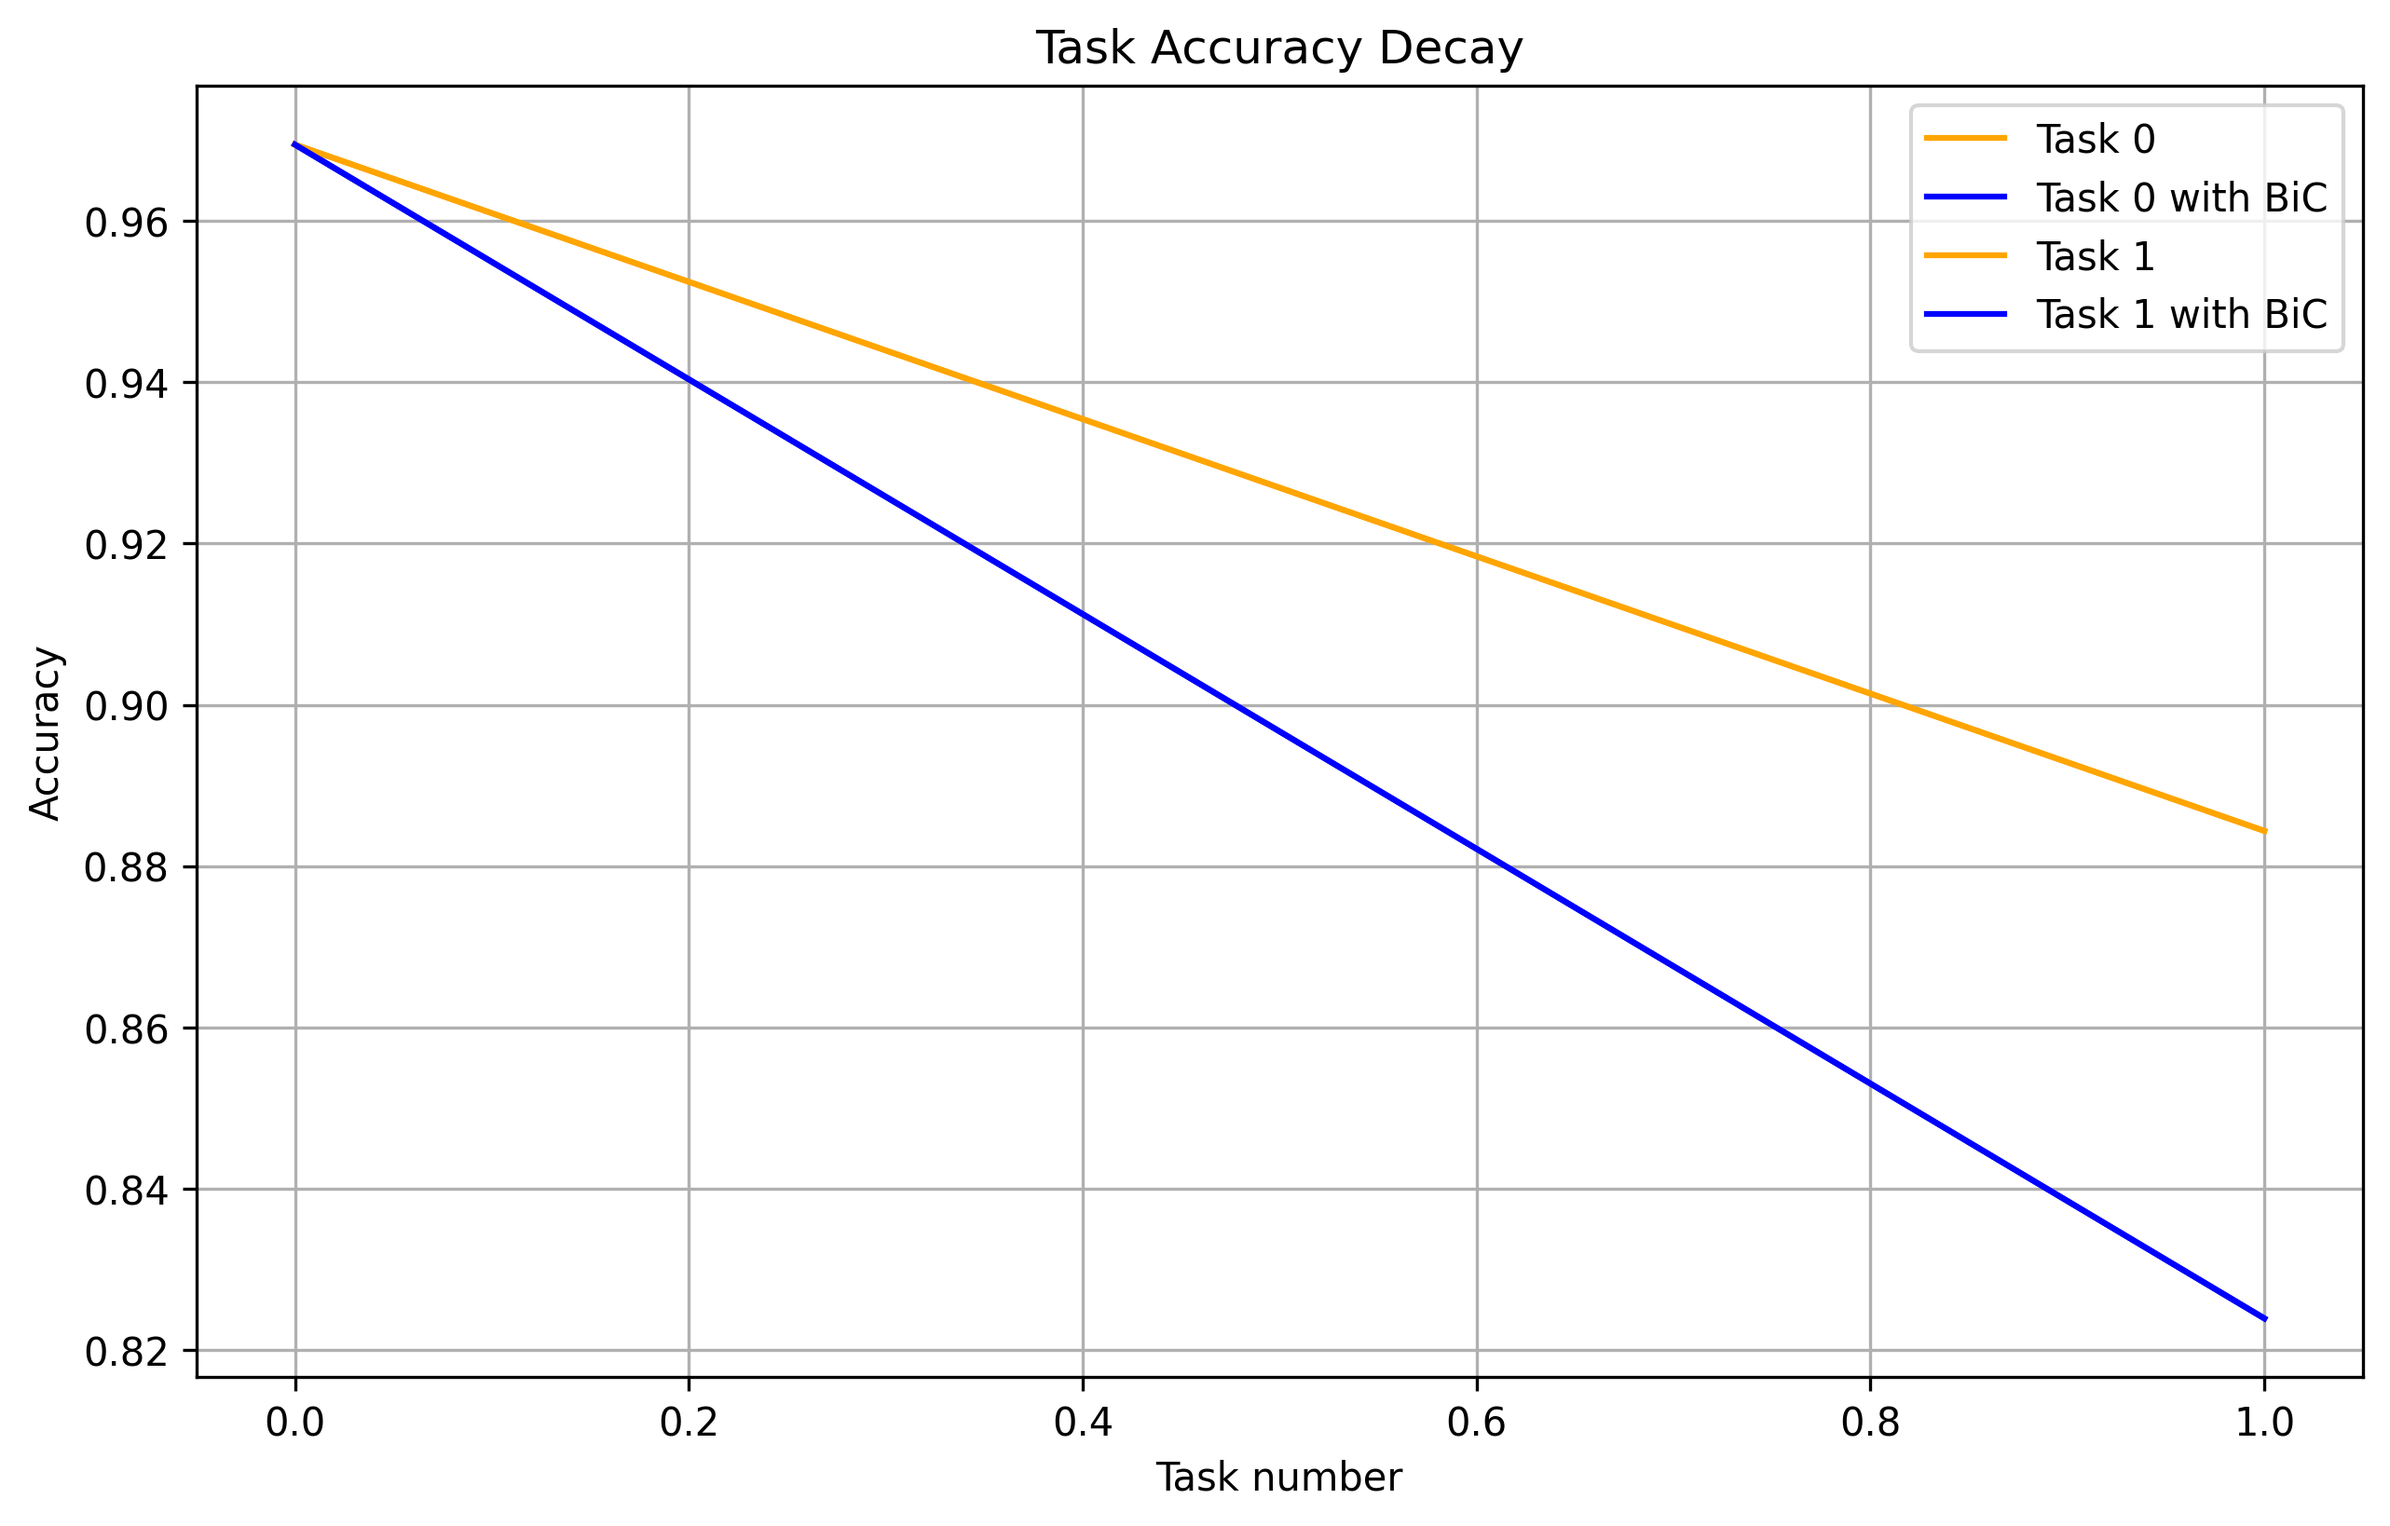
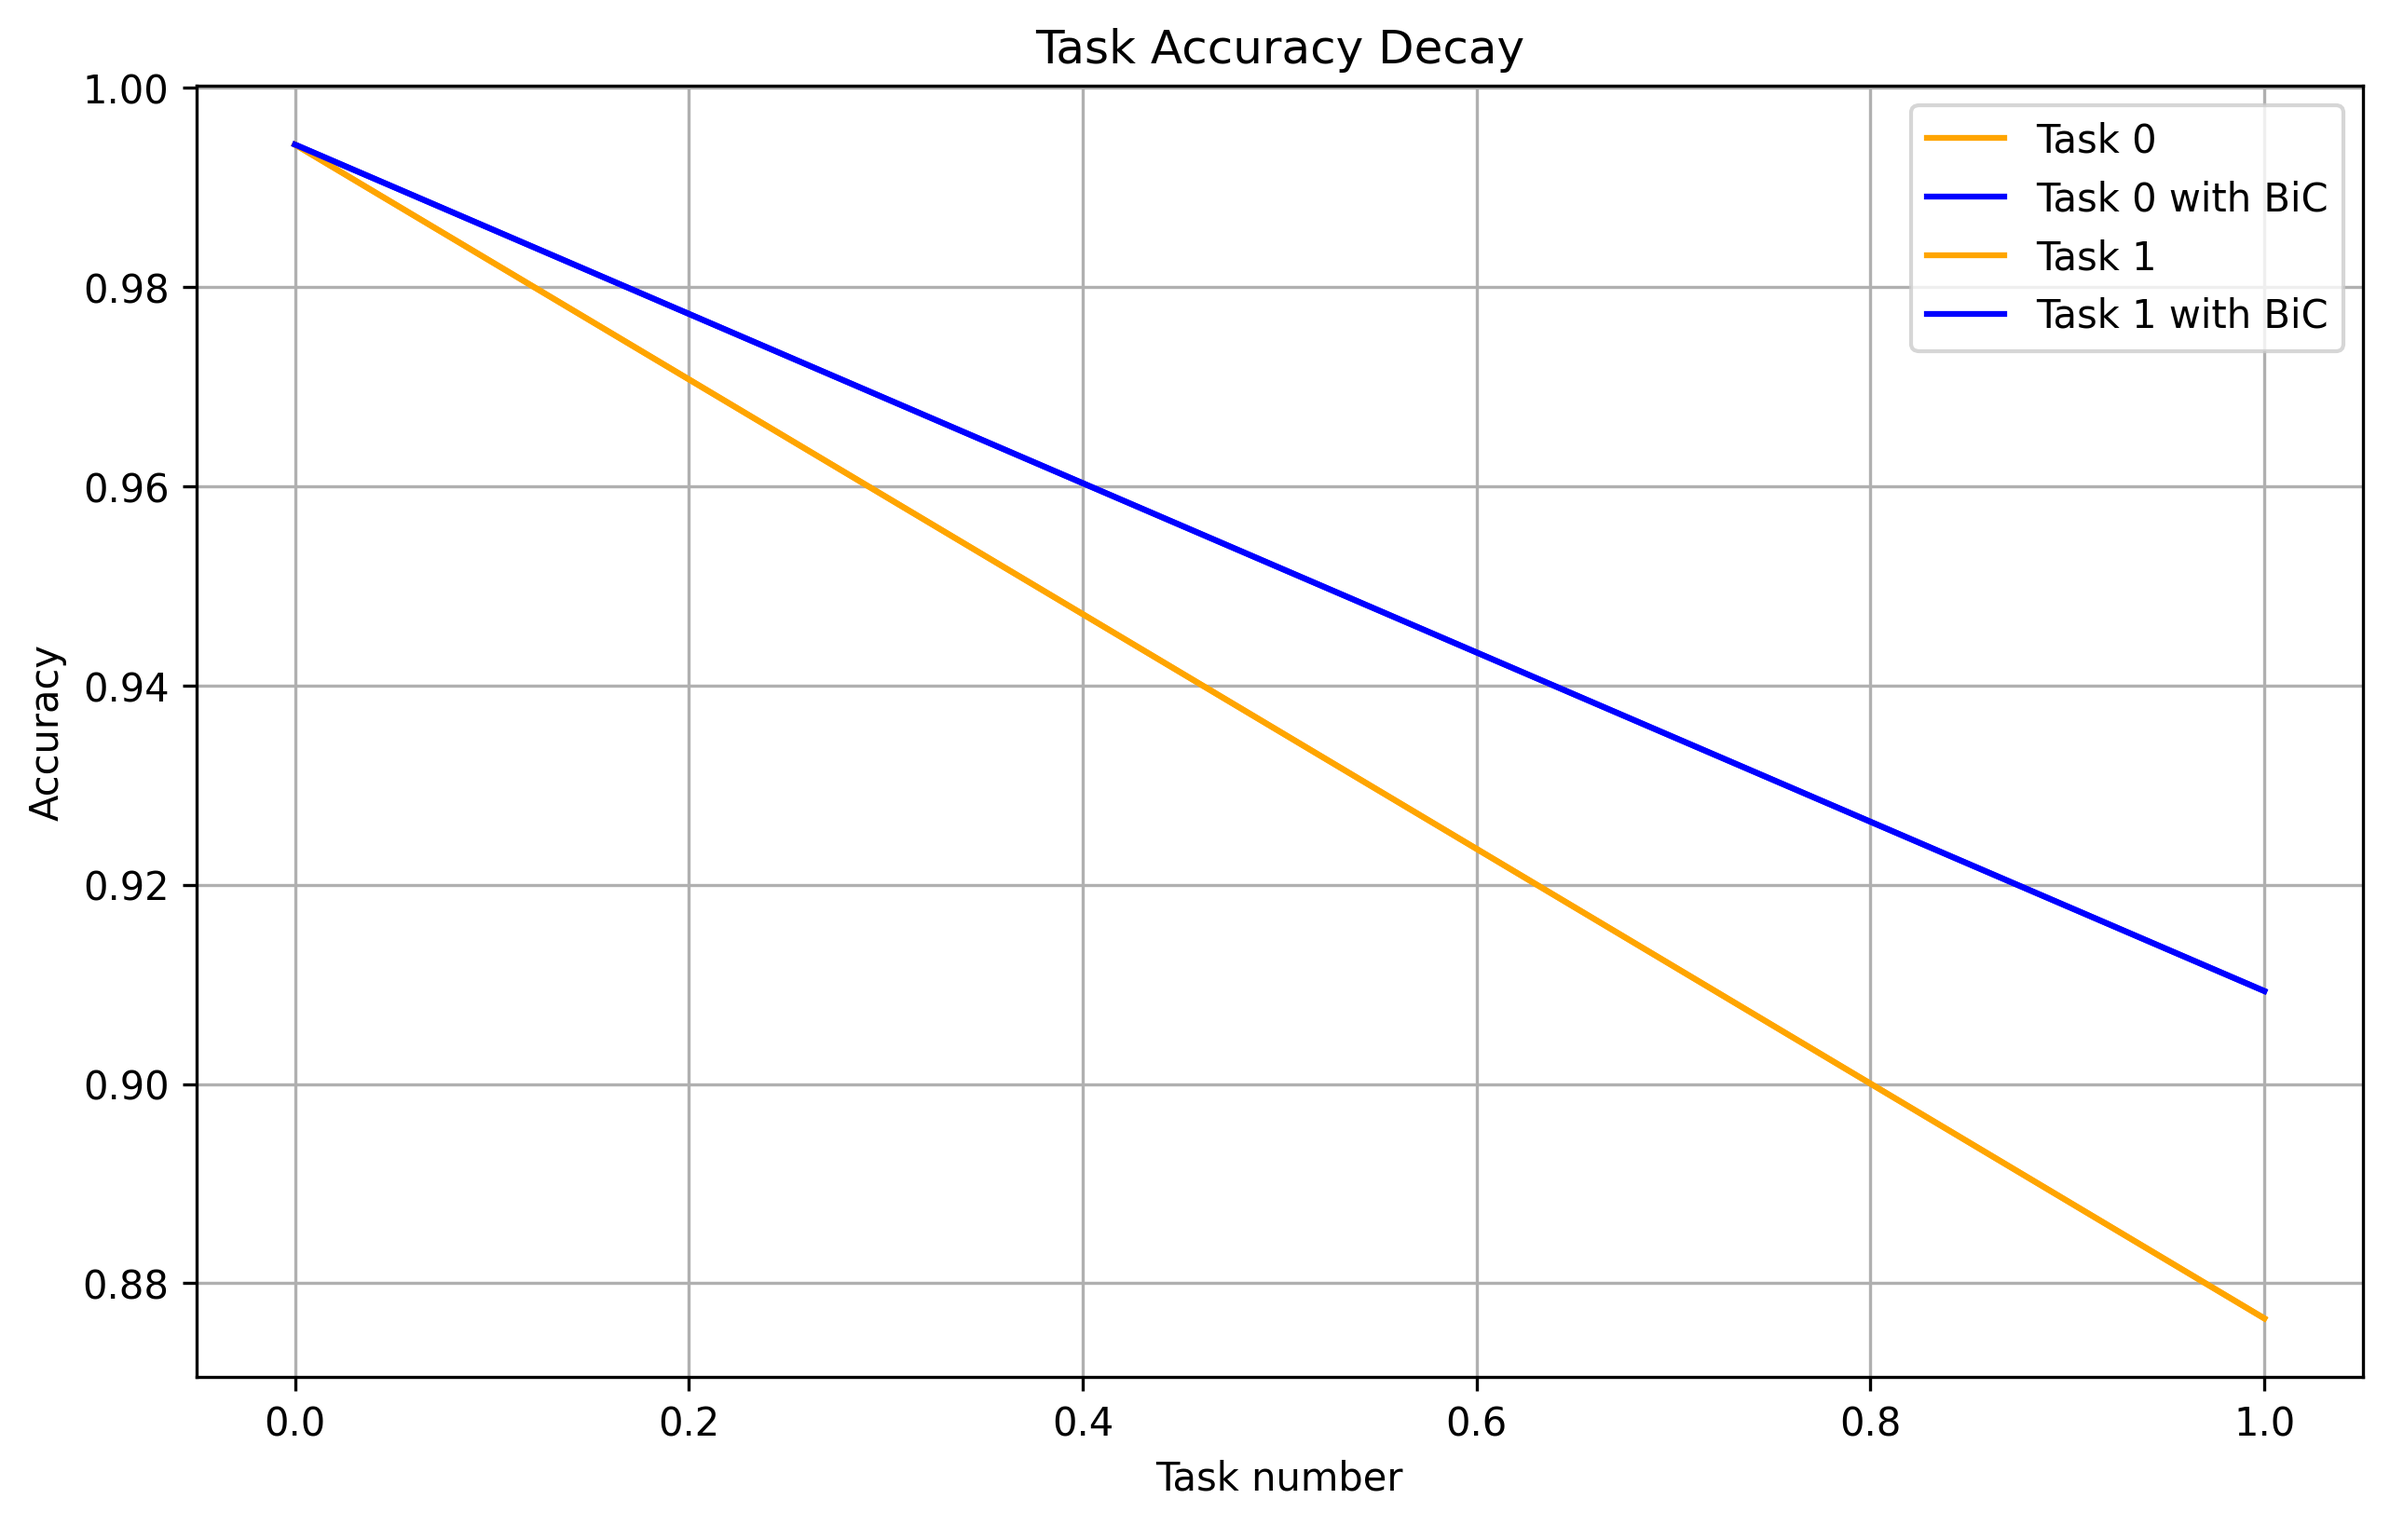
Tried to use Adam optimizer but not outperforming former version after parameter adjustment (lr, T, epoch, weight_decay). Thus give up further parameter adjustment attempts on Adam optimizer.

diff --git a/trainer.py b/trainer.py
@@ -223,8 +223,10 @@ class Trainer:
             train_xs, train_ys = exemplar.get_exemplar_train()
             train_xs.extend(train_x)
             train_xs.extend(val_x)
+            ##############
             train_ys.extend(train_y)
             train_ys.extend(val_y)
+            ###############
 
 
             train_data = DataLoader(BatchData(train_xs, train_ys, self.input_transform),
@@ -234,14 +236,16 @@ class Trainer:
             test_data = DataLoader(BatchData(test_xs, test_ys, self.input_transform_eval),
                         batch_size=batch_size*10, shuffle=False)
             if inc_i == 0:
-                optimizer = optim.SGD(self.model.parameters(), lr=lr, momentum=0.9,  weight_decay=2e-4)
+                # optimizer = optim.SGD(self.model.parameters(), lr=lr, momentum=0.9,  weight_decay=2e-4)
+                optimizer = optim.Adam(self.model.parameters(), lr=lr) 
                 # scheduler = LambdaLR(optimizer, lr_lambda=adjust_cifar100)
                 scheduler = StepLR(optimizer, step_size=70, gamma=0.1)
 
             if inc_i > 0:               # Biaslayer trained only if there is bias correction
                 # bias_optimizer = optim.SGD(self.bias_layers[inc_i].parameters(), lr=lr, momentum=0.9)
-                # bias_optimizer = optim.Adam(self.bias_layers[-1].parameters(), lr=0.001) #version 1: only train the last bias layer #inc-1 -> -1
-                optimizer = optim.SGD(self.model.parameters(), lr=lr, momentum=0.9,  weight_decay=2e-4)
+                # bias_optimizer = optim.Adam(self.bias_layers[-1].parameters(), lr=0.001) 
+                # optimizer = optim.SGD(self.model.parameters(), lr=lr, momentum=0.9,  weight_decay=2e-4)
+                optimizer = optim.Adam(self.model.parameters(), lr=lr)
                 # scheduler = LambdaLR(optimizer, lr_lambda=adjust_cifar100)
                 scheduler = StepLR(optimizer, step_size=70, gamma=0.1)
                 bias_optimizer = optim.Adam([param for layer in self.bias_layers for param in layer.parameters()], lr=bias_lr)  #version2: train all the bias layers              
@@ -288,7 +292,7 @@ class Trainer:
             test_accs_noBiC.append(test_acc_noBic)
 
             if inc_i > 0:
-                for epoch in range(2*epoches):
+                for epoch in range(3*epoches):
                     # bias_scheduler.step()
                     with torch.no_grad():
                         self.model.eval()

diff --git a/main.py b/main.py
@@ -7,11 +7,11 @@ import argparse
 
 parser = argparse.ArgumentParser(description='Incremental Learning BIC')
 parser.add_argument('--batch_size', default = 10, type = int)
-parser.add_argument('--epoch', default = 1, type = int) # small values for debug
-parser.add_argument('--lr', default = 0.01, type = float) 
+parser.add_argument('--epoch', default = 125, type = int) 
+parser.add_argument('--lr', default = 0.001, type = float) 
 parser.add_argument('--max_size', default = 400, type = int)
-parser.add_argument('--init_cls', default = 0, type = int)  #### total_cls=100 -> init_cls=0
-parser.add_argument('--distill_temperature', default = 4, type = float)
+parser.add_argument('--init_cls', default = 0, type = int)  
+parser.add_argument('--distill_temperature', default = 2, type = float)
 parser.add_argument('--bias_lr', default = 0.001, type = float)
 args = parser.parse_args()
 
